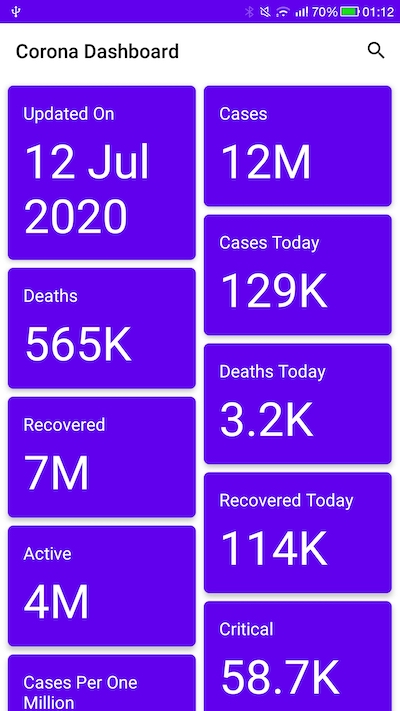
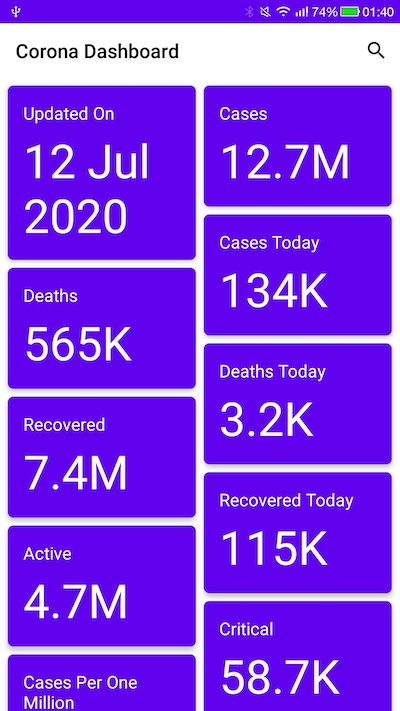
fixed billion roundoff

diff --git a/CoronaDashboard/app/src/main/java/com/singularitycoder/coronadashboard/MainActivity.java b/CoronaDashboard/app/src/main/java/com/singularitycoder/coronadashboard/MainActivity.java
@@ -190,7 +190,7 @@ public final class MainActivity extends AppCompatActivity {
                             coronaStatisticList.add(new CoronaStatisticItem("Deaths Per One Million", roundOffNumber(valueOf((int) coronaResponse.getDeathsPerOneMillion()))));
                             coronaStatisticList.add(new CoronaStatisticItem("Total Tests", roundOffNumber(valueOf((int) coronaResponse.getTests()))));
                             coronaStatisticList.add(new CoronaStatisticItem("Tests Per One Million", roundOffNumber(valueOf((int) coronaResponse.getTestsPerOneMillion()))));
-                            coronaStatisticList.add(new CoronaStatisticItem("Total Population", roundOffNumber(valueOf((int) coronaResponse.getPopulation()))));
+                            coronaStatisticList.add(new CoronaStatisticItem("Total Population", roundOffNumber(valueOf(Math.round(coronaResponse.getPopulation())))));
                             coronaStatisticList.add(new CoronaStatisticItem("One Case Per People", roundOffNumber(valueOf((int) coronaResponse.getOneCasePerPeople()))));
                             coronaStatisticList.add(new CoronaStatisticItem("One Death Per People", roundOffNumber(valueOf((int) coronaResponse.getOneDeathPerPeople()))));
                             coronaStatisticList.add(new CoronaStatisticItem("One Test Per People", roundOffNumber(valueOf((int) coronaResponse.getOneTestPerPeople()))));
@@ -261,11 +261,11 @@ public final class MainActivity extends AppCompatActivity {
 
         // Million
         else if (resultString.length() == 7) {
-            return resultString.charAt(0) + "M";
+            return resultString.charAt(0) + "." + resultString.charAt(1) + "M";
         }
 
          else if (resultString.length() == 8) {
-            return resultString.charAt(0) + "" + resultString.charAt(1) + "M";
+            return resultString.charAt(0) + "" + resultString.charAt(1) + "." + resultString.charAt(2) + "M";
         }
 
         else if (resultString.length() == 9) {
@@ -274,12 +274,12 @@ public final class MainActivity extends AppCompatActivity {
 
         // Billion
         else if (resultString.length() == 10) {
-            String billionResult = valueOf(Math.round(Math.floor(Double.parseDouble(resultString))));
-            return billionResult.charAt(0) + "B";
+//            String billionResult = valueOf(Math.round(Math.floor(Double.parseDouble(resultString))));
+            return resultString.charAt(0) + "." + resultString.charAt(1) + "B";
         }
 
         else if (resultString.length() == 11) {
-            return resultString.charAt(0) + "" + resultString.charAt(1) + "B";
+            return resultString.charAt(0) + "" + resultString.charAt(1) + "." + resultString.charAt(2) + "B";
         }
 
         else if (resultString.length() == 12) {
